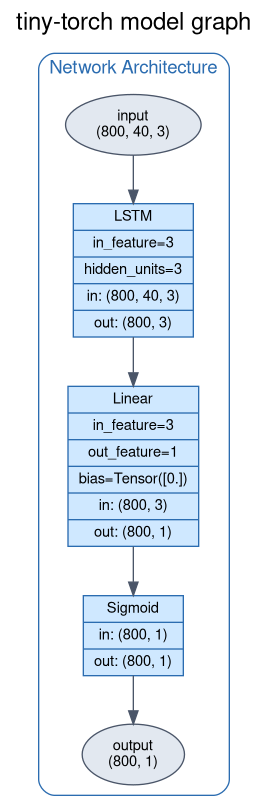
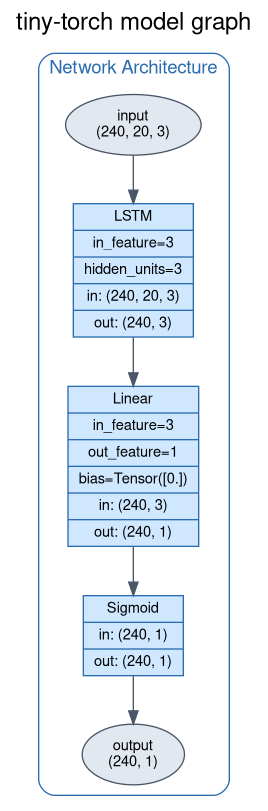
fixing wrong accuracy computation

diff --git a/thorcino/training/trainer.py b/thorcino/training/trainer.py
@@ -129,7 +129,7 @@ class Trainer:
                 total += len(predictions)
 
             elif len(preds.shape) > 1 and preds.shape[1] == 1: # Binary class
-                predictions = np.round(preds.data.flatten())
+                predictions = np.round(preds.data)
                 correct += np.sum(predictions == targets.data)
                 total += len(predictions)
 
